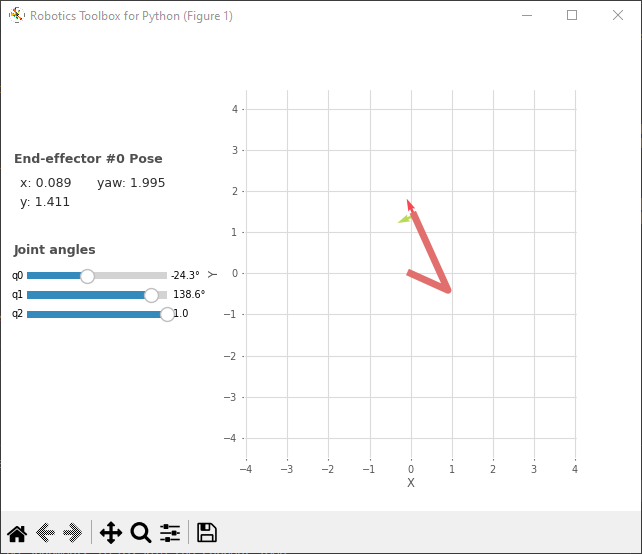
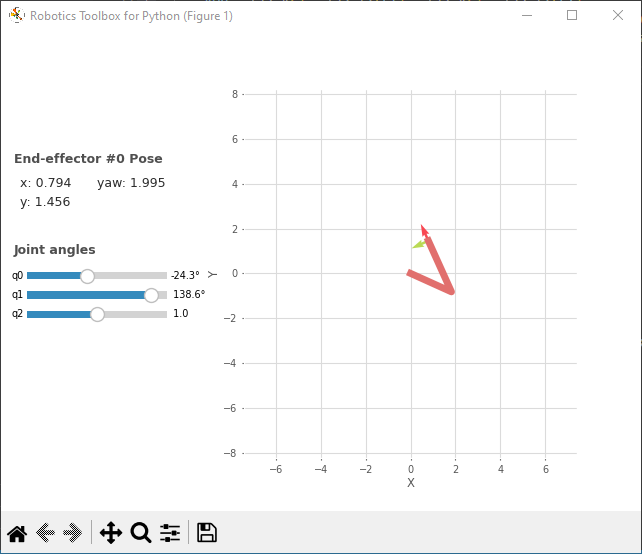
Adição print Questão 1

diff --git a/AB1_Part2.py b/AB1_Part2.py
@@ -13,6 +13,7 @@ def Q1(L1 = 1, L2 = 1, x= 0.5, y = 0.5):
     B = m.acos((x**2 + y**2 - L1**2 - L2**2) / (2 * L1 * L2))
     A = m.atan2(y, x) - m.atan2(L2 * m.sin(B), L1 + L2* m.cos(B))
     print(A,B)
+
     print(f"Fkine =\n{Rob.fkine(q =[A,B])}")
     Rob.teach(q = [A,B])
 
@@ -26,13 +27,17 @@ def Q1(L1 = 1, L2 = 1, x= 0.5, y = 0.5):
     print(Rob.fkine(q =[1.9948,-24188]).printline())
    
     print("Letra B")
-    Rob = Rob* ET2.tx(qlim=[0,1])
+    L1 = 2
+    L2 = 1.5
+    Rob = ET2.R() * ET2.tx(L1) * ET2.R() * ET2.tx(L2)* ET2.tx(qlim=[0,2])
     Rob.teach(q = [A,B,1])
+    Rob.teach(q = [0,B,2])
 
 
-    print("Letra C")
-    print(Rob.fkine(q = [0,0.5,0.5]).printline())
-    Rob.teach(q = [0,0.5,0.5])
+    q = [0,0.5,0.5]
+    print(f"Fkine =\n{Rob.fkine(q)}")
+    print(Rob.fkine(q).printline())
+    Rob.teach(q)
 
 def Q2(L1 = 1, L2 = 1, L3 = 1, L4 = 1):
     fig = plt.figure()
